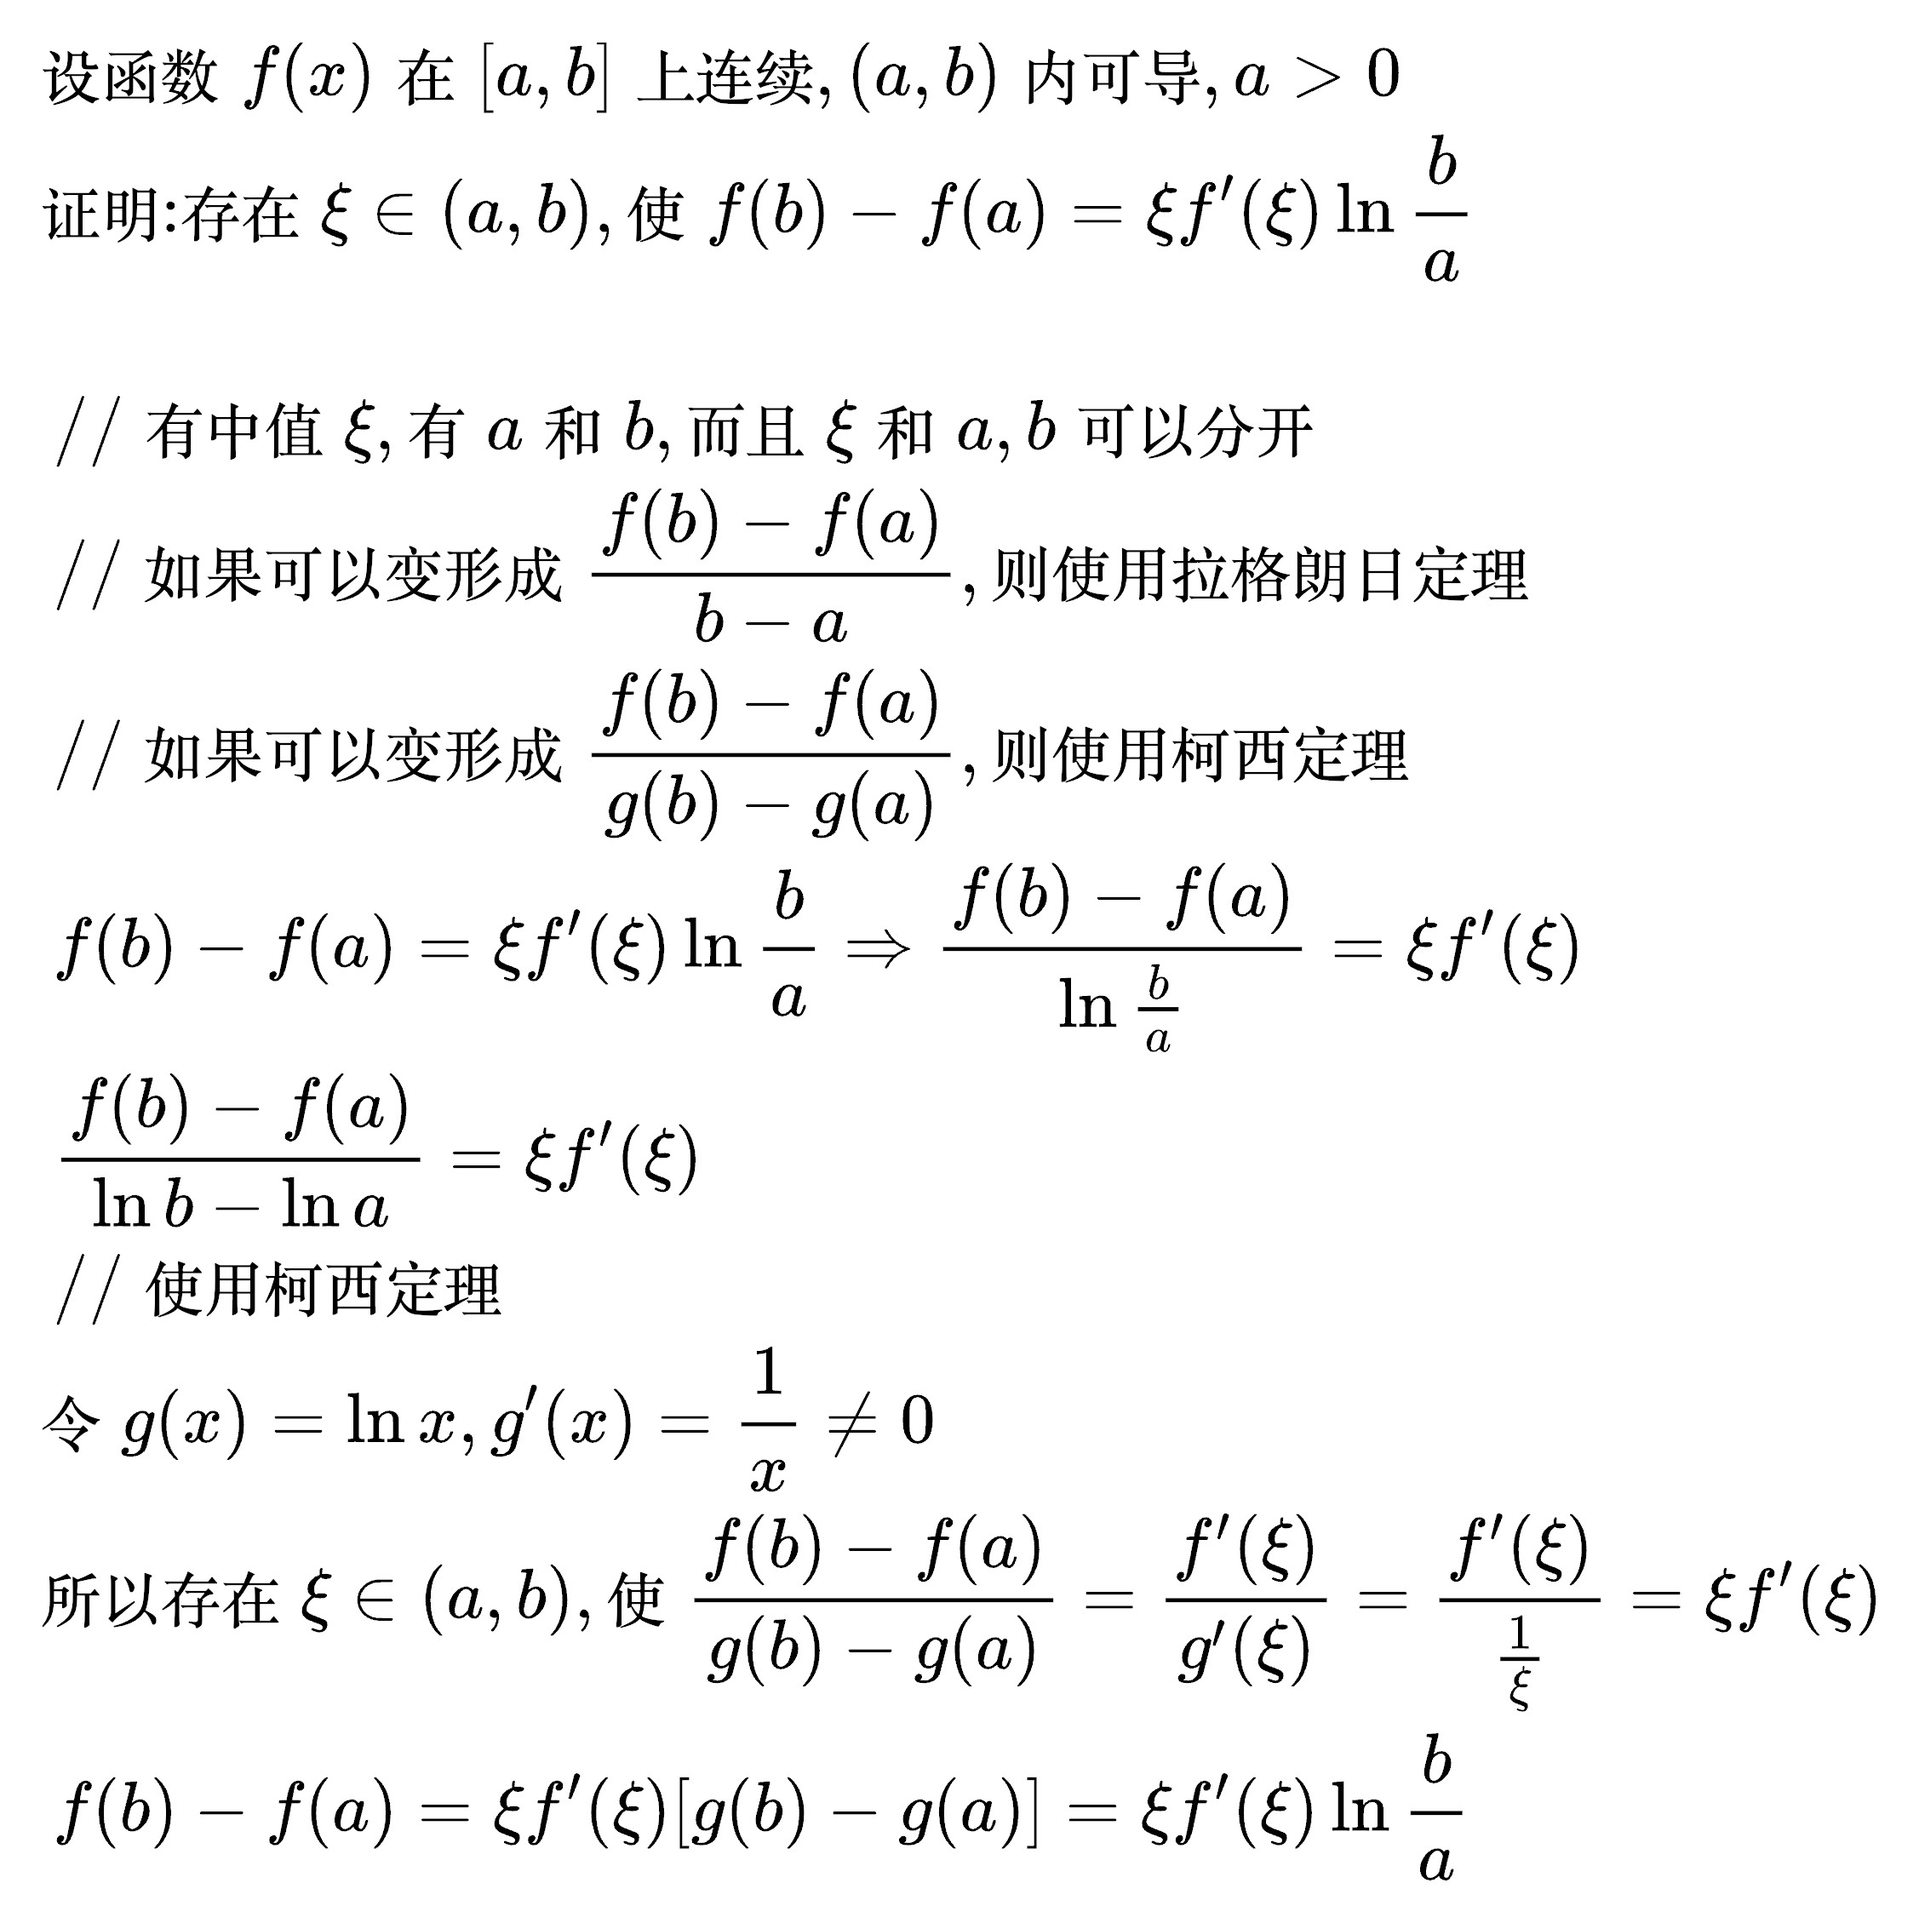
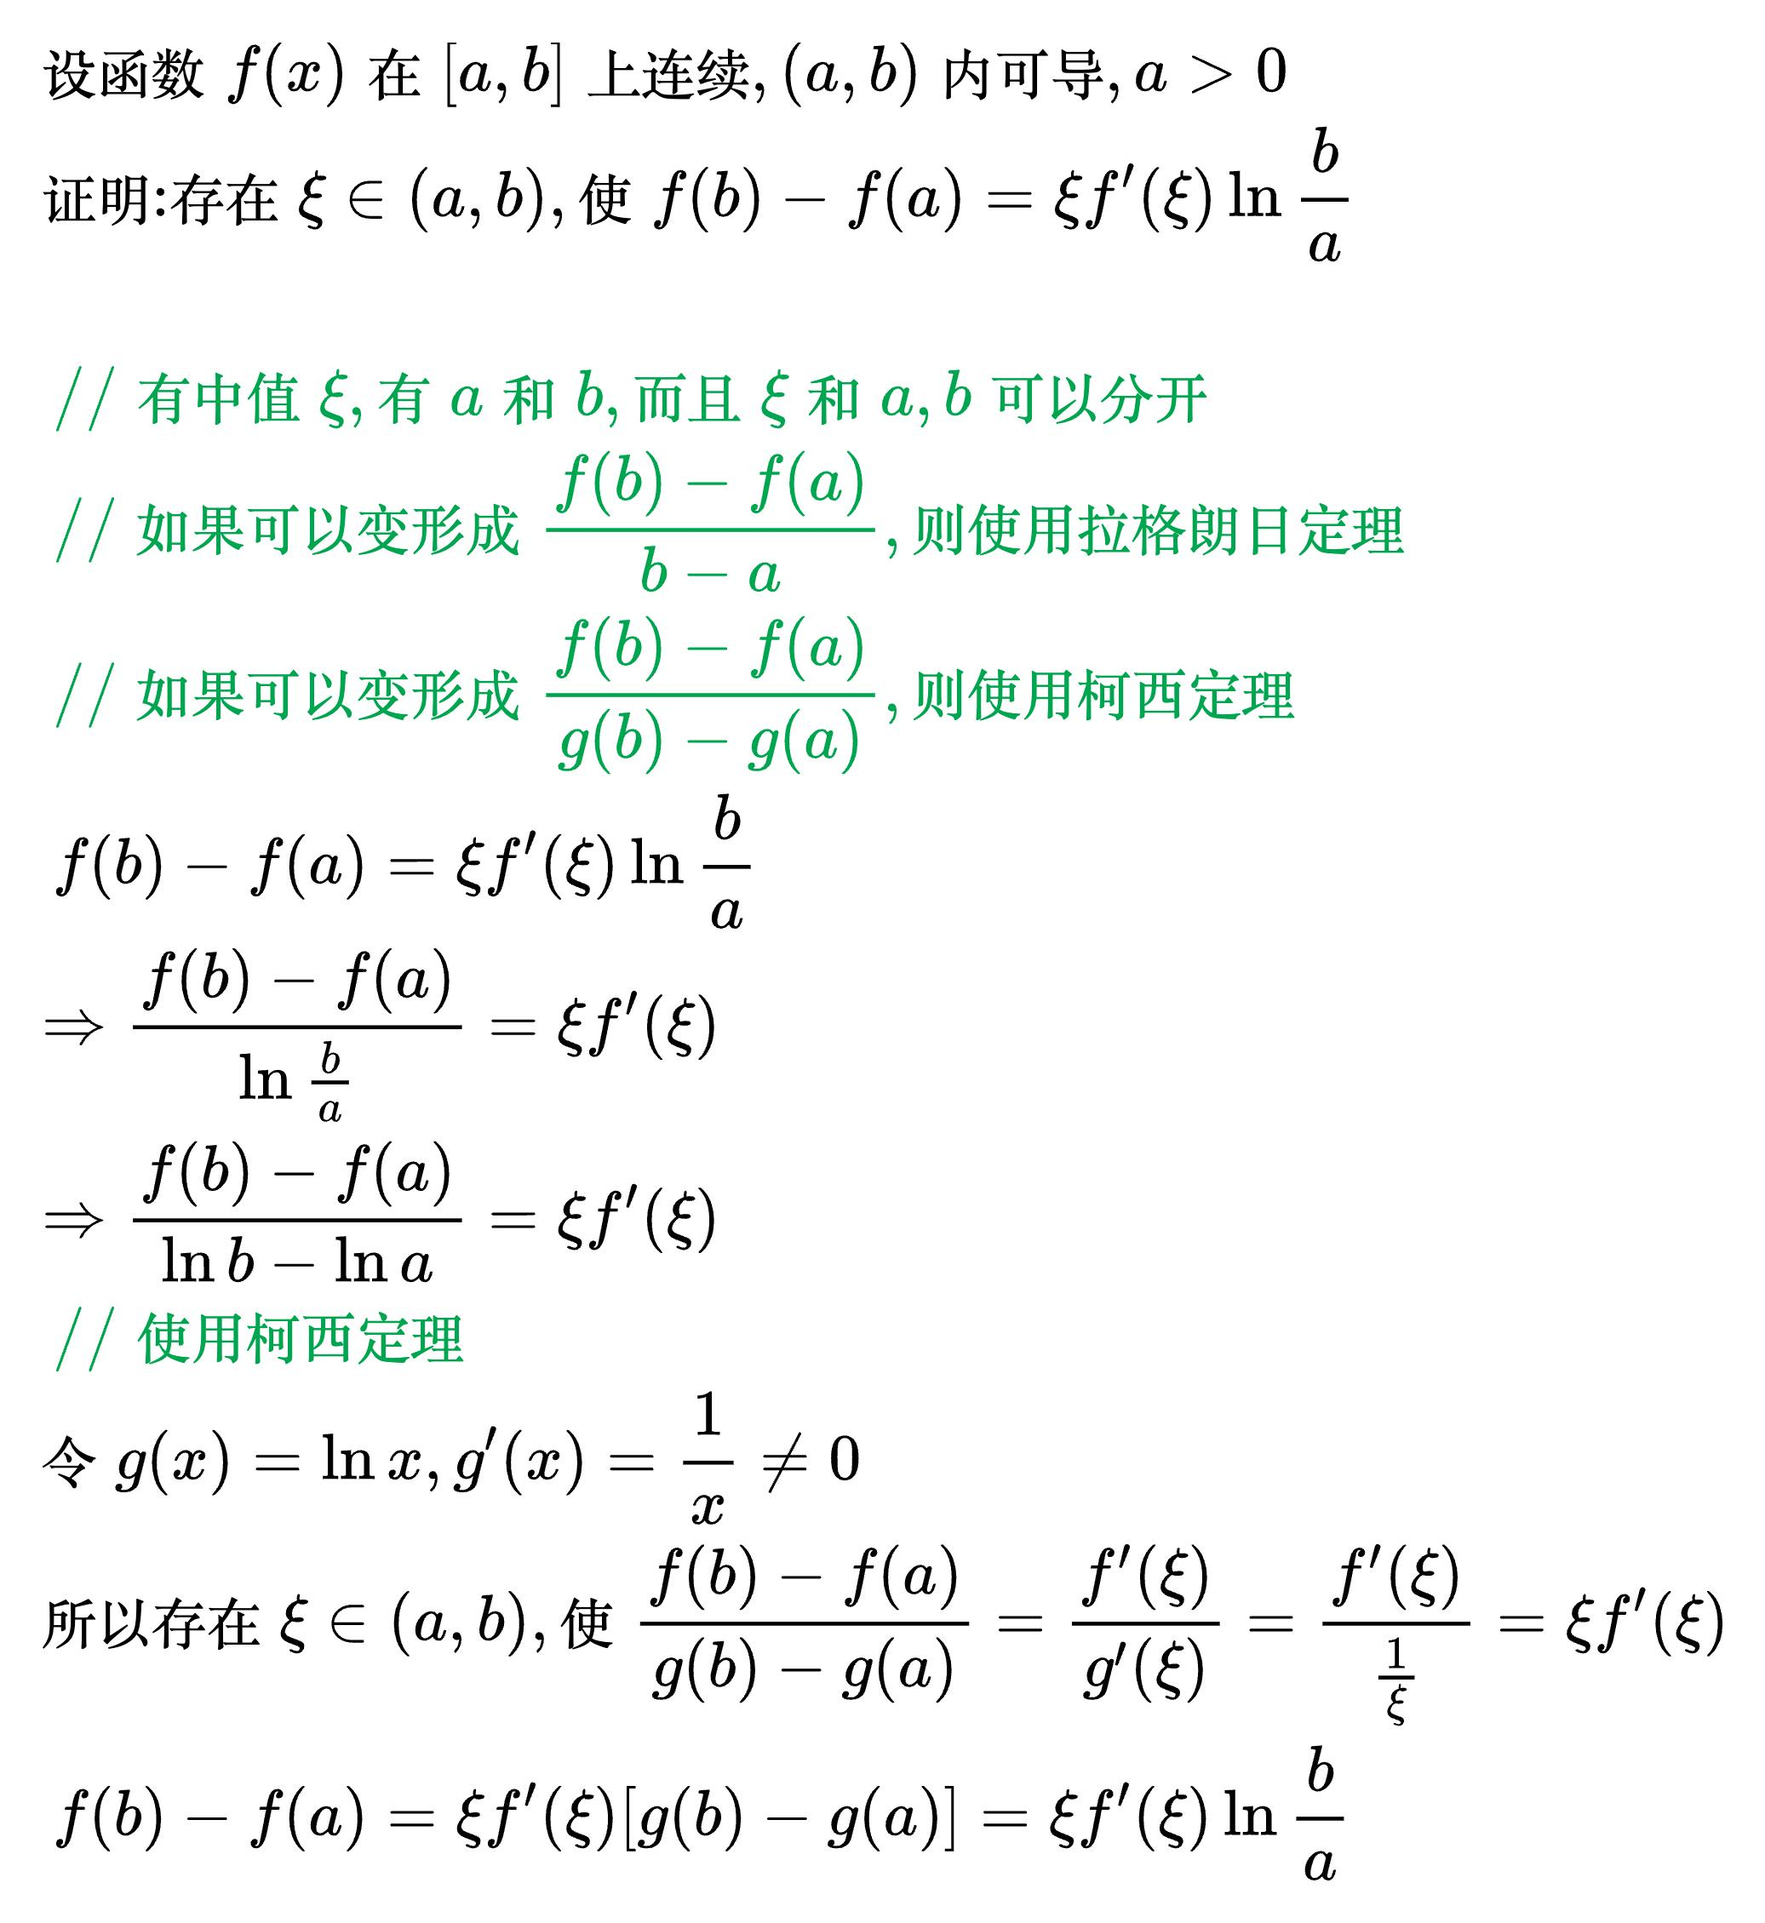
1

diff --git a/base/math/src/further_mathematics/mean_value_theorem.md b/base/math/src/further_mathematics/mean_value_theorem.md
@@ -27,7 +27,7 @@
 
 ![](../img/mvt2.jpg)
 
-例题
+### 例题
 
 <!--
 \begin{align}
@@ -207,7 +207,7 @@ plt.show()
 
 ![](../img/mvt6.jpg)
 
-例题
+### 例题
 
 <!--
 \begin{align}
@@ -288,9 +288,9 @@ plt.show()
 & \; 2. f(x), g(x) 在 (a, b) 内可导 \\
 & \; 3. g'(x) \ne 0, \quad a < x < b \\
 & 则存在 \xi \in (a, b), \\
-& 使得 \frac{f(b) - f(a)}{g(b) - g(a)} = \frac{f'(\xi)}{g'(\xi)} \\
+& 使得 \frac{f(b) - f(a)}{g(b) - g(a)}=\frac{f'(\xi)}{g'(\xi)} \\
 \\
-& 当 g(x) = x 时, 柯西中值定理即为拉格朗日中值定理, \\
+& 当 g(x)=x 时, 柯西中值定理即为拉格朗日中值定理, \\
 & 即拉格朗日中值定理是柯西中值定理的特例 \\
 \\
 & 证明拉格朗日时的辅助函数：\\
@@ -298,13 +298,22 @@ plt.show()
 & 那么证明柯西时需要的辅助函数就是把x还原回g(x)：\\
 & \varphi (x)=f(x)-f(a)-\frac{f(b)-f(a)}{g(b)-g(a)}\left [ g(x)-g(a) \right ]  \\
 & 证明：\\
-&
+& {\color{Green} // 加、减、乘不会改变连续性和可导性} \\
+& \varphi (x) 在 [a, b] 上连续、在 (a, b) 内可导 \\
+& \varphi (a)=f(a)-f(a)-\frac{f(b)-f(a)}{g(b)-g(a)}\left [ g(a)-g(a) \right ]=0 \\
+& \varphi (b)=f(b)-f(a)-\frac{f(b)-f(a)}{g(b)-g(a)}\left [ g(b)-g(a) \right ]\\
+& =f(b)-f(a)-\left [ f(b)-f(a) \right ]=0 \\
+& 满足罗尔定理 \\
+& 所以存在 \xi \in (a, b)，使\varphi '(\xi)=0 \\
+& 而\varphi '(x)=f'(x)-\frac{f(b)-f(a)}{g(b)-g(a)}g'(x) \\
+& 所以 \varphi '(\xi)=f'(\xi)-\frac{f(b)-f(a)}{g(b)-g(a)}g'(\xi) = 0 \\
+& \frac{f'(\xi)}{g'(\xi)}=\frac{f(b)-f(a)}{g(b)-g(a)} \\
 \end{align}
 -->
 
 ![](../img/mvt11.jpg)
 
-例题
+### 例题
 
 <!--
 \begin{align}
@@ -372,9 +381,9 @@ plt.show()
 & \;\, {\color{Green} // 有中值 \xi, 有 a 和 b, 而且 \xi 和 a, b 可以分开} \\
 & \;\, {\color{Green} // 如果可以变形成 \frac{f(b) - f(a)}{b - a}, 则使用拉格朗日定理} \\
 & \;\, {\color{Green} // 如果可以变形成 \frac{f(b) - f(a)}{g(b) - g(a)}, 则使用柯西定理} \\
-& \;\, f(b) - f(a) = \xi f'(\xi) \ln \frac{b}{a} \Rightarrow
-\frac{f(b) - f(a)}{\ln \frac{b}{a}} = \xi f'(\xi) \\
-& \;\, \frac{f(b) - f(a)}{\ln b - \ln a} = \xi f'(\xi) \\
+& \;\, f(b) - f(a) = \xi f'(\xi) \ln \frac{b}{a} \\
+& \Rightarrow \frac{f(b) - f(a)}{\ln \frac{b}{a}} = \xi f'(\xi) \\
+& \Rightarrow \frac{f(b) - f(a)}{\ln b - \ln a} = \xi f'(\xi) \\
 & \;\, {\color{Green} // 使用柯西定理} \\
 & 令 g(x) = \ln x, g'(x) = \frac{1}{x} \ne 0 \\
 & 所以存在 \xi \in (a, b), 使 \frac{f(b) - f(a)}{g(b) - g(a)} = \frac{f'(\xi)}{g'(\xi)}
@@ -389,6 +398,9 @@ plt.show()
 
 <!--
 \begin{align}
+& 背景：\\
+&
+\\
 & 设 f(x) 在 x = x_{0} 邻域里有 n+1 阶导数, \\
 & 则 f(x) = P_{n}(x) + R_{n}(x) \\
 & 其中 P_{n}(x) 是 n 次多项式, R_{n}(x) 称为余项 \\
@@ -409,7 +421,7 @@ o((x - x_{0})^{n}), & 佩亚诺型余项
 
 ![](../img/mvt15.jpg)
 
-常用的麦克劳林公式
+### 常用的麦克劳林公式
 
 <!--
 \begin{align}
@@ -425,7 +437,7 @@ o((x - x_{0})^{n}), & 佩亚诺型余项
 
 ![](../img/mvt16.jpg)
 
-例题 1
+### 例题
 
 <!--
 \begin{align}
@@ -444,8 +456,6 @@ o((x - x_{0})^{n}), & 佩亚诺型余项
 -->
 
 ![](../img/mvt17.jpg)
-
-例题 2
 
 <!--
 \begin{align}
@@ -473,8 +483,6 @@ o((x - x_{0})^{n}), & 佩亚诺型余项
 -->
 
 ![](../img/mvt18.jpg)
-
-例题 3
 
 <!--
 \begin{align}
